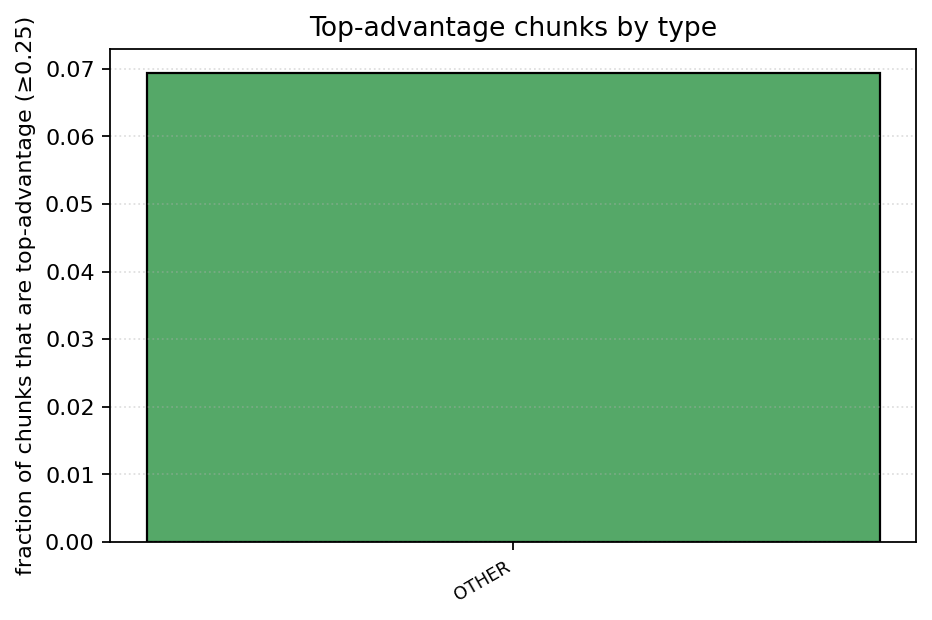
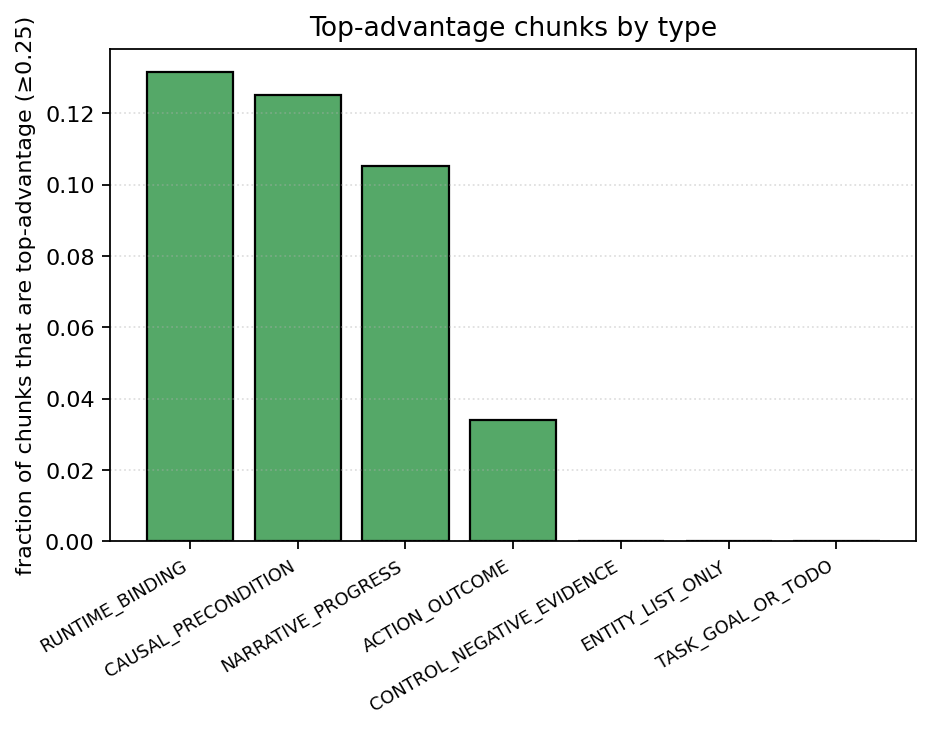
v9: refixed chunk labels after max_tokens bump + add thinking-aware guard
- clients.py: add WARN_THINKING_MIN_MAX_TOKENS=1024 guard that warns once
  per (name, max_tokens, json_mode) when MiniMax is called with too low
  a max_tokens budget. The empirically-derived threshold prevents future
  stages from silently dropping all output because <think> blocks ate
  the entire budget (cf. stage 11's original 256-token degradation).
- outputs/: re-ran stages 11-14 with fixed max_tokens. chunk_type_labels.jsonl
  now spans 7 types (was 144/144 OTHER); chunk_advantage_by_type.csv now
  has 7 rows (was 1). ENTITY_LIST_ONLY correctly shows zero advantage;
  ACTION_OUTCOME has the highest mean score advantage (+0.068, n=59).

diff --git a/motivation_v9/motivation_v9/clients.py b/motivation_v9/motivation_v9/clients.py
@@ -26,6 +26,18 @@ QWEN_MODEL = "qwen3-4b-instruct-2507"
 MINIMAX_BASE_URL = "http://10.183.22.68:8005/v1"
 MINIMAX_MODEL = "MiniMaxAI/MiniMax-M2.5"
 
+# Empirically (v9 stage 02, n=270): MiniMax-M2.5 spends a median of ~543
+# completion tokens inside <think>...</think> before emitting any user-
+# facing text, with p90 ≈ 750 and max ≈ 1360. Any `max_tokens` below this
+# threshold risks the entire budget being eaten by thinking, leaving an
+# empty post-strip payload and silent parse failures downstream (this is
+# how v9 stage 11 first shipped with all 144 chunk labels = "OTHER").
+# 1024 leaves ~480 tokens of headroom for the actual response on top of
+# median thinking — small JSON labels fit; long JSON / paragraph outputs
+# should stay at the 2048 default.
+WARN_THINKING_MIN_MAX_TOKENS = 1024
+_warned_thinking_max_tokens: set = set()
+
 
 def make_client(name: str) -> OpenAI:
     if name in ("qwen", "qwen3-4b", "qwen4b", QWEN_MODEL):
@@ -83,6 +95,10 @@ class ChatResult:
         return self.error is None
 
 
+def _is_minimax(name: str) -> bool:
+    return name in ("minimax", "minimax-m2.5") or name.startswith("MiniMax")
+
+
 def chat(
     *,
     name: str,
@@ -94,6 +110,21 @@ def chat(
     json_mode: bool = False,
     client: Optional[OpenAI] = None,
 ) -> ChatResult:
+    if _is_minimax(name) and max_tokens < WARN_THINKING_MIN_MAX_TOKENS:
+        key = (name, max_tokens, json_mode)
+        if key not in _warned_thinking_max_tokens:
+            _warned_thinking_max_tokens.add(key)
+            import sys as _sys
+            _sys.stderr.write(
+                f"[motivation_v9.clients] WARNING: chat(name={name!r}, "
+                f"max_tokens={max_tokens}, json_mode={json_mode}) is below "
+                f"WARN_THINKING_MIN_MAX_TOKENS={WARN_THINKING_MIN_MAX_TOKENS}. "
+                f"MiniMax-M2.5 thinking blocks alone are typically 500-750 "
+                f"tokens; the entire budget may be eaten by <think>...</think> "
+                f"and post-strip text will be empty. Bump max_tokens or "
+                f"expect silent parse failures.\n"
+            )
+            _sys.stderr.flush()
     if client is None:
         client = make_client(name)
     extra: Dict[str, Any] = {}

diff --git a/motivation_v9/outputs/reports/motivation_v9_results_summary.md b/motivation_v9/outputs/reports/motivation_v9_results_summary.md
@@ -1,6 +1,6 @@
 # motivation_v9 Results — Behavioral Compression Stress and Chunk Information Advantage
 
-> Auto-written by `scripts/14_write_report.py` at 2026-05-29 18:50Z.
+> Auto-written by `scripts/14_write_report.py` at 2026-05-29 20:01Z.
 
 ## TL;DR
 - Behavioral validation of v7/v8 surface-type abstraction prior findings.
@@ -40,10 +40,17 @@ Per (compressor_model, eval_context_round):
 
 ## Claim 3: Chunk Information Advantage
 
-| chunk_type   |   n_chunks |   mean_score_advantage |   mean_pass_advantage |   frac_positive_advantage |   frac_top_advantage |   contains_causal_relation_rate |   contains_exact_literals_rate |
-|:-------------|-----------:|-----------------------:|----------------------:|--------------------------:|---------------------:|--------------------------------:|-------------------------------:|
-| OTHER        |        144 |                  0.028 |                 0.028 |                     0.201 |                0.069 |                               0 |                              0 |
+| chunk_type                |   n_chunks |   mean_score_advantage |   mean_pass_advantage |   frac_positive_advantage |   frac_top_advantage |   contains_causal_relation_rate |   contains_exact_literals_rate |
+|:--------------------------|-----------:|-----------------------:|----------------------:|--------------------------:|---------------------:|--------------------------------:|-------------------------------:|
+| ACTION_OUTCOME            |         59 |                  0.068 |                 0.068 |                     0.22  |                0.034 |                           0.034 |                          0.831 |
+| CAUSAL_PRECONDITION       |          8 |                  0     |                 0     |                     0.25  |                0.125 |                           1     |                          0.75  |
+| CONTROL_NEGATIVE_EVIDENCE |          4 |                  0     |                 0     |                     0.25  |                0     |                           1     |                          1     |
+| ENTITY_LIST_ONLY          |         12 |                  0     |                 0     |                     0.083 |                0     |                           0     |                          1     |
+| NARRATIVE_PROGRESS        |         19 |                  0.053 |                 0.053 |                     0.158 |                0.105 |                           0.263 |                          0.789 |
+| RUNTIME_BINDING           |         38 |                 -0.026 |                -0.026 |                     0.237 |                0.132 |                           0.026 |                          1     |
+| TASK_GOAL_OR_TODO         |          4 |                  0     |                 0     |                     0     |                0     |                           0     |                          1     |
 
+**Verdict Claim 3:** STRONG POSITIVE (causal/control mean adv=0.023 vs entity-only mean adv=0.000)
 
 ## What This Motivates for RL
 - If Claim 1 + 2 pass: train compressor with reward = behavior_after_stress(T^K) - λ·length.